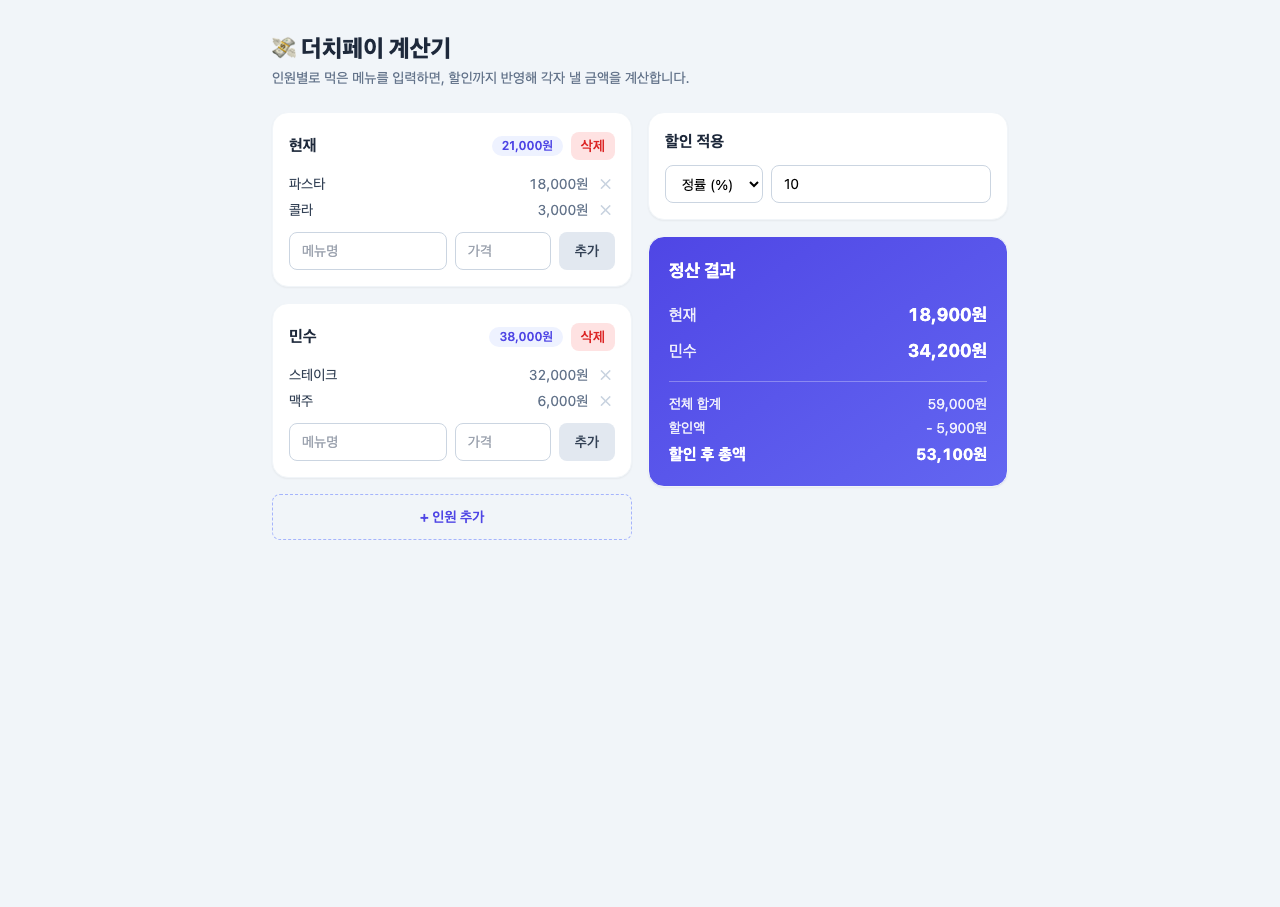
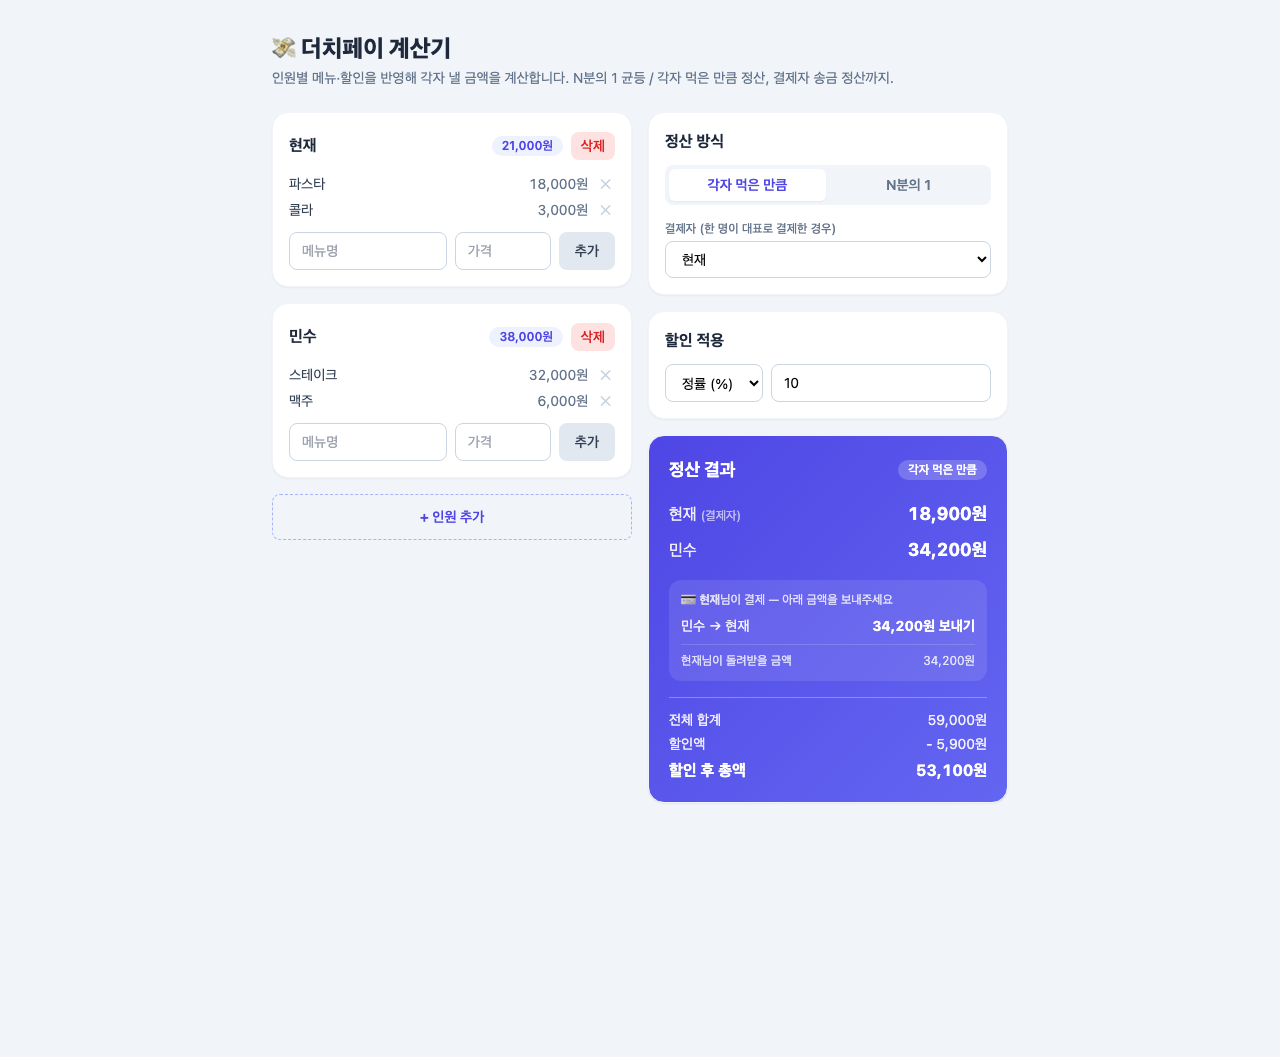
더치페이 계산기 보강: 정산 방식 토글 + 결제자 송금 정산
- 정산 방식 토글: 'N분의 1 균등' / '각자 먹은 만큼' 전환
- 결제자 선택 시 나머지가 결제자에게 보낼 송금액·돌려받을 금액 표시
- 초기 샘플에 결제자(현재) 지정해 기능이 바로 보이도록 구성

diff --git a/week_2/quest/1_dutch-pay/index.html b/week_2/quest/1_dutch-pay/index.html
@@ -172,20 +172,43 @@
     // ========================================
 
     function ResultPanel({ result }) {
-      const { total, discountAmount, afterDiscount, shares } = result
+      const { total, discountAmount, afterDiscount, shares, splitMode, payer, transfers, payerReceives } = result
       return (
         <Card className="p-5 bg-gradient-to-br from-indigo-600 to-indigo-500 text-white">
-          <h2 className="font-bold text-lg mb-4">정산 결과</h2>
+          <div className="flex items-center justify-between mb-4">
+            <h2 className="font-bold text-lg">정산 결과</h2>
+            <Badge className="bg-white/20 text-white">{splitMode === 'equal' ? 'N분의 1 균등' : '각자 먹은 만큼'}</Badge>
+          </div>
 
+          {/* 인원별 부담액 */}
           <ul className="space-y-2 mb-4">
             {shares.map((s) => (
               <li key={s.id} className="flex items-center justify-between">
-                <span className="opacity-90">{s.name}</span>
+                <span className="opacity-90">{s.name}{payer && s.id === payer.id && <span className="ml-1 text-xs opacity-70">(결제자)</span>}</span>
                 <span className="font-bold tabular-nums text-lg">{formatWon(s.pay)}</span>
               </li>
             ))}
             {shares.length === 0 && <li className="opacity-80 text-sm">인원과 메뉴를 입력하면 계산됩니다.</li>}
           </ul>
+
+          {/* 결제자 송금 정산 */}
+          {payer && transfers.length > 0 && (
+            <div className="bg-white/10 rounded-xl p-3 mb-4">
+              <p className="text-xs opacity-80 mb-2">💳 <b>{payer.name}</b>님이 결제 — 아래 금액을 보내주세요</p>
+              <ul className="space-y-1.5">
+                {transfers.map((t) => (
+                  <li key={t.id} className="flex items-center justify-between text-sm">
+                    <span className="opacity-90">{t.from} → {t.to}</span>
+                    <span className="font-bold tabular-nums">{formatWon(t.amount)} 보내기</span>
+                  </li>
+                ))}
+              </ul>
+              <div className="flex justify-between text-xs opacity-80 mt-2 pt-2 border-t border-white/20">
+                <span>{payer.name}님이 돌려받을 금액</span>
+                <span className="tabular-nums">{formatWon(payerReceives)}</span>
+              </div>
+            </div>
+          )}
 
           <div className="border-t border-white/30 pt-3 space-y-1 text-sm">
             <div className="flex justify-between opacity-90"><span>전체 합계</span><span className="tabular-nums">{formatWon(total)}</span></div>
@@ -197,22 +220,67 @@
     }
 
     // ========================================
+    // 🧩 정산 옵션 (정산 방식 토글 + 결제자 선택)
+    // ========================================
+
+    function SettleOptions({ splitMode, onChangeMode, people, payerId, onChangePayer }) {
+      const modes = [
+        { key: 'each', label: '각자 먹은 만큼' },
+        { key: 'equal', label: 'N분의 1' }
+      ]
+      return (
+        <Card className="p-4">
+          <h2 className="font-bold text-slate-800 mb-3">정산 방식</h2>
+          {/* 세그먼트 토글 */}
+          <div className="flex gap-1 bg-slate-100 rounded-lg p-1 mb-4">
+            {modes.map((m) => (
+              <button
+                key={m.key}
+                onClick={() => onChangeMode(m.key)}
+                className={`flex-1 text-sm font-semibold rounded-md py-1.5 transition ${splitMode === m.key ? 'bg-white text-indigo-600 shadow-sm' : 'text-slate-500'}`}
+              >
+                {m.label}
+              </button>
+            ))}
+          </div>
+          {/* 결제자 선택 */}
+          <span className="block text-xs font-medium text-slate-500 mb-1">결제자 (한 명이 대표로 결제한 경우)</span>
+          <select
+            value={payerId == null ? '' : String(payerId)}
+            onChange={(e) => onChangePayer(e.target.value === '' ? null : Number(e.target.value))}
+            className="w-full rounded-lg border border-slate-300 px-3 py-2 text-sm focus:outline-none focus:ring-2 focus:ring-indigo-400"
+          >
+            <option value="">없음 (각자 부담액만 표시)</option>
+            {people.map((p) => (
+              <option key={p.id} value={String(p.id)}>{p.name}</option>
+            ))}
+          </select>
+        </Card>
+      )
+    }
+
+    // ========================================
     // 🚀 App — 상태 관리 + 핵심 계산 로직
     // ========================================
 
+    // 초기 샘플 데이터 (한 번만 생성 — id 고정)
+    const INITIAL_PEOPLE = [
+      { id: makeId(), name: '현재', items: [
+        { id: makeId(), name: '파스타', price: 18000 },
+        { id: makeId(), name: '콜라', price: 3000 }
+      ] },
+      { id: makeId(), name: '민수', items: [
+        { id: makeId(), name: '스테이크', price: 32000 },
+        { id: makeId(), name: '맥주', price: 6000 }
+      ] }
+    ]
+
     function App() {
       // 인원 배열 (각 인원은 먹은 메뉴 배열을 가짐)
-      const [people, setPeople] = useState([
-        { id: makeId(), name: '현재', items: [
-          { id: makeId(), name: '파스타', price: 18000 },
-          { id: makeId(), name: '콜라', price: 3000 }
-        ] },
-        { id: makeId(), name: '민수', items: [
-          { id: makeId(), name: '스테이크', price: 32000 },
-          { id: makeId(), name: '맥주', price: 6000 }
-        ] }
-      ])
+      const [people, setPeople] = useState(INITIAL_PEOPLE)
       const [discount, setDiscount] = useState({ type: 'percent', value: '10' })
+      const [splitMode, setSplitMode] = useState('each') // 'each'=각자 먹은 만큼, 'equal'=N분의 1 균등
+      const [payerId, setPayerId] = useState(INITIAL_PEOPLE[0].id) // 결제자(대표로 낸 사람), 없으면 null
 
       // --- 인원 조작 ---
       function addPerson() {
@@ -239,6 +307,7 @@
 
       // --- 핵심 계산 (배열/반복문/reduce) ---
       const result = useMemo(() => {
+        const n = people.length
         // 1) 인원별 소계 = 그 사람이 먹은 메뉴 가격 합
         const subtotals = people.map((p) => p.items.reduce((sum, it) => sum + it.price, 0))
         // 2) 전체 합계
@@ -251,27 +320,41 @@
         discountAmount = Math.max(0, Math.min(discountAmount, total))
         const afterDiscount = total - discountAmount
 
-        // 4) 각자 부담액 = 할인 후 총액 × (소계 / 전체합계), 반올림
+        // 4) 각자 부담액 — 정산 방식(splitMode)에 따라 분배
+        //    equal: 할인 후 총액을 인원수로 균등 분할
+        //    each : 각자 먹은 소계 비율대로 분배
         //    단수차이는 마지막 인원이 흡수해 합이 정확히 일치하도록 검산
         let allocated = 0
         const shares = people.map((p, i) => {
-          const subtotal = subtotals[i]
-          let pay = total > 0 ? Math.round(afterDiscount * subtotal / total) : 0
+          let pay
+          if (splitMode === 'equal') {
+            pay = n > 0 ? Math.round(afterDiscount / n) : 0
+          } else {
+            pay = total > 0 ? Math.round(afterDiscount * subtotals[i] / total) : 0
+          }
           allocated += pay
-          return { id: p.id, name: p.name, subtotal, pay }
+          return { id: p.id, name: p.name, subtotal: subtotals[i], pay }
         })
-        if (shares.length > 0 && total > 0) {
-          // 마지막 인원에게 반올림 오차 보정
-          shares[shares.length - 1].pay += afterDiscount - allocated
+        if (shares.length > 0) {
+          shares[shares.length - 1].pay += afterDiscount - allocated // 반올림 오차 보정
         }
-        return { subtotals, total, discountAmount, afterDiscount, shares }
-      }, [people, discount])
+
+        // 5) 결제자 정산 — 결제자가 전액을 냈다고 보고, 나머지가 각자 부담액만큼 송금
+        const payer = shares.find((s) => s.id === payerId) || null
+        const transfers = payer
+          ? shares.filter((s) => s.id !== payer.id && s.pay > 0)
+              .map((s) => ({ id: s.id, from: s.name, to: payer.name, amount: s.pay }))
+          : []
+        const payerReceives = payer ? afterDiscount - payer.pay : 0
+
+        return { subtotals, total, discountAmount, afterDiscount, shares, splitMode, payer, transfers, payerReceives }
+      }, [people, discount, splitMode, payerId])
 
       return (
         <div className="max-w-3xl mx-auto px-4 py-8">
           <header className="mb-6">
             <h1 className="text-2xl font-extrabold text-slate-800">💸 더치페이 계산기</h1>
-            <p className="text-sm text-slate-500 mt-1">인원별로 먹은 메뉴를 입력하면, 할인까지 반영해 각자 낼 금액을 계산합니다.</p>
+            <p className="text-sm text-slate-500 mt-1">인원별 메뉴·할인을 반영해 각자 낼 금액을 계산합니다. N분의 1 균등 / 각자 먹은 만큼 정산, 결제자 송금 정산까지.</p>
           </header>
 
           <div className="grid md:grid-cols-2 gap-4 items-start">
@@ -291,8 +374,15 @@
               <Button variant="ghost" onClick={addPerson} className="w-full border border-dashed border-indigo-300 py-3">+ 인원 추가</Button>
             </div>
 
-            {/* 오른쪽: 할인 + 결과 (sticky) */}
+            {/* 오른쪽: 정산 방식 + 할인 + 결과 (sticky) */}
             <div className="space-y-4 md:sticky md:top-8">
+              <SettleOptions
+                splitMode={splitMode}
+                onChangeMode={setSplitMode}
+                people={people}
+                payerId={payerId}
+                onChangePayer={setPayerId}
+              />
               <DiscountControl discount={discount} onChange={setDiscount} />
               <ResultPanel result={result} />
             </div>